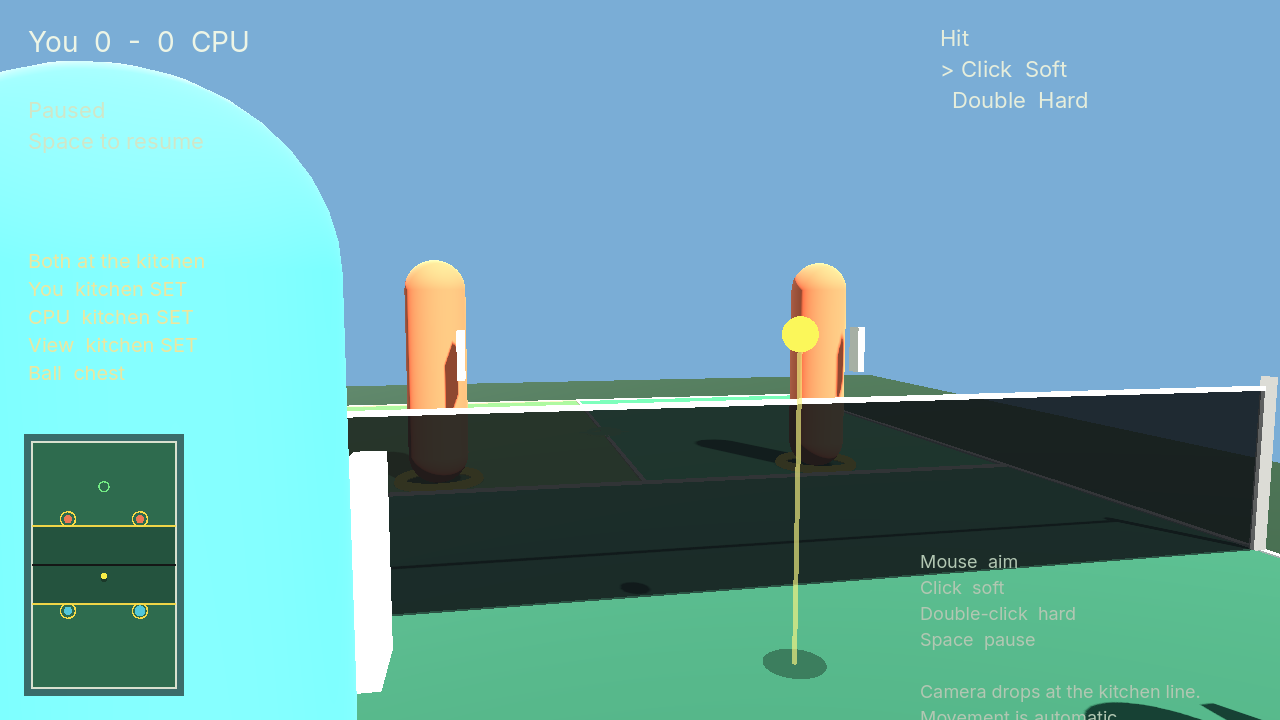
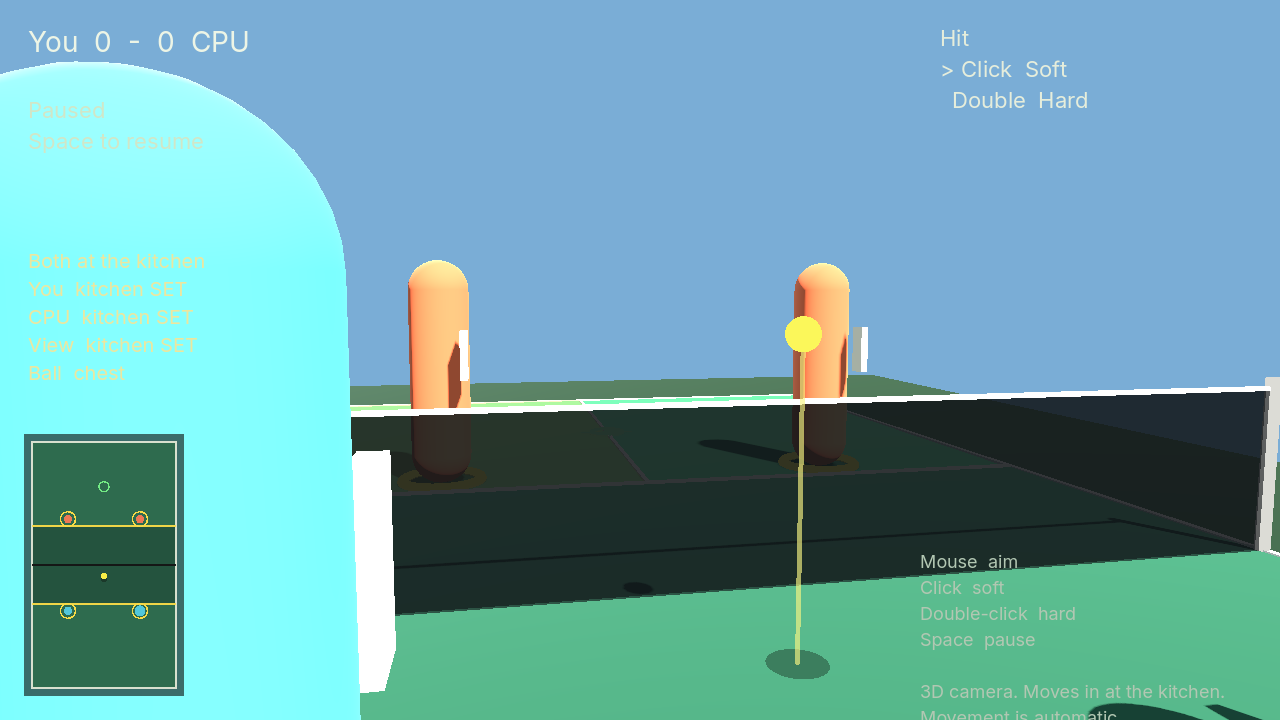
Keep one 3D kitchen view and only move the camera.
The pulled-back pose is the same third-person 3D scene, just further back and a bit higher. On the kitchen line it moves in. There is no 2D overhead renderer for the main view.

diff --git a/docs/implementation.md b/docs/implementation.md
@@ -6,8 +6,8 @@ All in-game strings must stay English. The project embeds `fonts/Inter-Regular.t
 
 ## What this slice must prove
 
-- Overhead 2D is gone. The camera is a shoulder TPS that changes when the focused human is on the kitchen line
-- Away from the line the kitchen line is the look target. On the line the camera drops, pulls in, and reads ball height against the net
+- Overhead 2D is gone. One 3D TPS (the kitchen view); only the camera pose changes
+- Away from the line the same camera pulls back and up so the kitchen is ahead. On the line it moves in and reads ball height against the net
 - Arriving and stopping settles the camera. Running keeps a small shake
 - Both partners are controlled as a team. The mouse aims a free landing on the opponent court. It does not move a player
 - Click is soft, double-click is hard. Those two paces are the only swings. Human contact is not automatic
@@ -137,14 +137,14 @@ Return only.
 
 ## Camera
 
-`KitchenOccupancy.in_front_view` is the kitchen-camera trigger (on the line or closer to the net on your side). Baseline and transition stay on the pulled-back rig.
+`KitchenOccupancy.in_front_view` is the kitchen-camera trigger (on the line or closer to the net on your side). Baseline and transition use the same 3D TPS, pulled back.
 
 `CameraRig.compose(focus, ball, blend)` is view-independent and unit-tested:
 
-- blend 0: higher, further back, look biased to the south kitchen line
-- blend 1: lower, over the shoulder, look biased to net / ball height, tighter FOV
+- blend 0: same kitchen 3D view, further back and a bit higher, looking at play height toward the kitchen
+- blend 1: close over the shoulder, looking at net / ball height
 
-Shake scales with the focus athlete's speed and drops to zero when they are set on the line. Follow damping is faster when set so arriving is the stable moment.
+There is no separate 2D renderer for the main view. Shake scales with the focus athlete's speed and drops to zero when they are set on the line. Follow damping is faster when set so arriving is the stable moment.
 
 The focus athlete is the human server/receiver during serve, the human hitter while defending, and the human closer to the net after we hit (so the partner walking up to the line pulls the camera with them).
 

diff --git a/docs/design-discussion.md b/docs/design-discussion.md
@@ -339,7 +339,7 @@ FPSは「ピックルボールらしい」のではなく、**ネット前の決
 
 ## 現行スライスとの関係
 
-`gd-pickleball` は overhead 2D を捨て、キッチンライン上かどうかで切り替わる肩越しTPSを試している。クリックがソフト、ダブルクリックがハード、移動は自動、CPUは返球のみ。試合理解上の3フェーズ（取る／片方だけ／両方）は HUD の kitchen 表示で試し、カメラは「ラインに着いたか」の二値＋着いて止まったときの安定化。
+`gd-pickleball` は overhead 2D を捨て、キッチンの3Dビューを常時使う。ラインから離れているときは同じカメラを引いて少し上げ、着いたら寄せて沈める。クリックがソフト、ダブルクリックがハード、移動は自動、CPUは返球のみ。試合理解上の3フェーズ（取る／片方だけ／両方）は HUD の kitchen 表示で試し、カメラは「ラインに着いたか」の二値＋着いて止まったときの安定化。
 
 このメモの仮説を次のスライスに落とすなら、優先度は高い順に：
 

diff --git a/docs/rules.md b/docs/rules.md
@@ -6,10 +6,10 @@ This version is not a full game. It repeats serve-to-rally points. First to 11 w
 
 ## Camera
 
-The view is third-person, from behind your team. It is not a tennis-style overhead map.
+The game is always the kitchen 3D view. There is no 2D overhead. Away from the kitchen the same camera sits further back and a bit higher so you can see the line you are running to. On the line it moves in and looks across the net.
 
-- Away from the kitchen: the camera sits higher and back so the kitchen line is the thing you are running toward
-- On the kitchen line: the camera drops, moves in, and looks across the net so ball height is the main thing you read
+- Away from the kitchen: pulled back, still third-person 3D
+- On the kitchen line: closer and lower, ball height against the net
 - While you are still moving the camera is less stable. It settles when you arrive and stop
 - A small map in the corner shows both partners and the kitchen lines
 

diff --git a/README.md b/README.md
@@ -1,6 +1,6 @@
 # gd-pickleball
 
-Third-person pickleball doubles. The camera sits back until you reach the kitchen line, then drops and looks across the net. This version repeats serve-to-rally points. First to 11.
+Third-person pickleball doubles. One 3D kitchen view: the camera pulls back until you reach the line, then moves in. This version repeats serve-to-rally points. First to 11.
 
 - Player rules: [`docs/rules.md`](docs/rules.md)
 - Implementation notes: [`docs/implementation.md`](docs/implementation.md)
